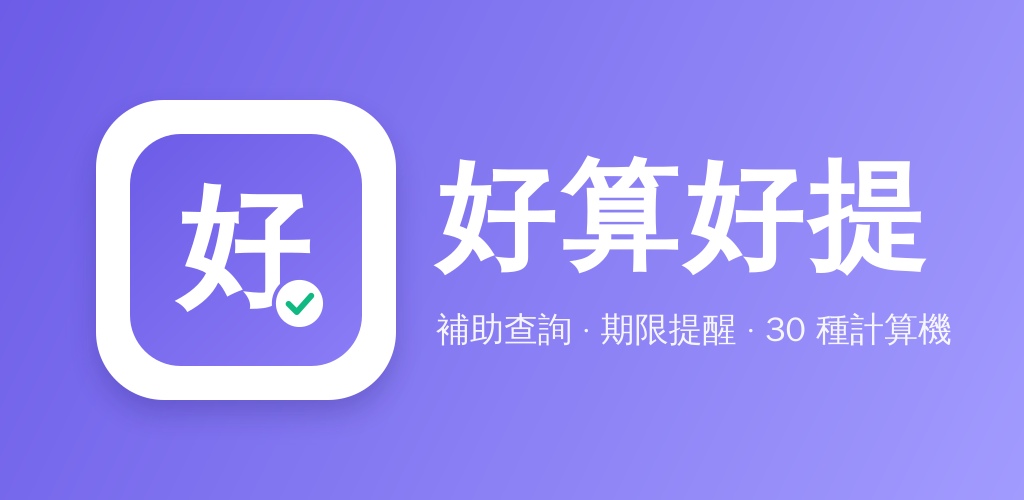
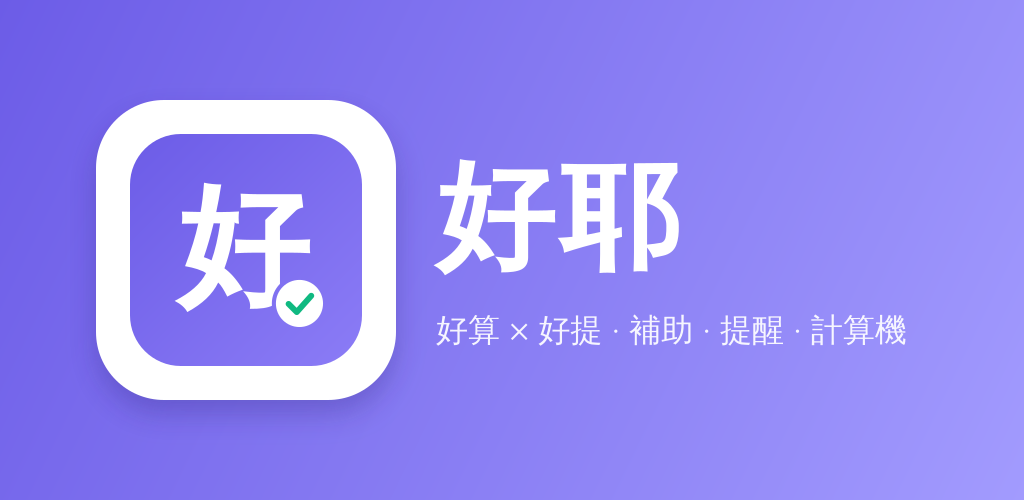
產品名改為「好耶」；修提醒面板被分頁列蓋住的問題
- 顯示名稱全部改為「好耶」（appId com.haosuan.haoti 不變）：site.ts、capacitor.config、Android strings、
  manifest、商店文案、上架手冊、啟動畫面與 feature graphic 文字
- 提醒底部面板 z-index 提到分頁列之上，「確認加入」在手機寬度可以按到；toast 位置避開分頁列
- 端對端流程（Playwright）：試算 7 題→結果→加入提醒→提醒清單，0 個 console 錯誤

Claude-Session: https://claude.ai/code/session_01R5S3Lsq8FJW5NDUegJPTxC

Changed region(s): [[0.5312, 0.3, 0.9062, 0.57], [0.4062, 0.63, 0.9375, 0.69]]

diff --git a/src/components/reminders/AddReminderButton.tsx b/src/components/reminders/AddReminderButton.tsx
@@ -191,8 +191,9 @@ export default function AddReminderButton({
         {existing ? '已加入提醒' : '加入提醒'}
       </Button>
 
+      {/* z 要高於底部分頁列（z-50），否則「確認加入」會被分頁列蓋住按不到 */}
       {open && (
-        <div className="fixed inset-0 z-50 flex items-end justify-center sm:items-center">
+        <div className="fixed inset-0 z-[70] flex items-end justify-center sm:items-center">
           <button
             type="button"
             aria-label="關閉"
@@ -203,7 +204,7 @@ export default function AddReminderButton({
             role="dialog"
             aria-modal="true"
             aria-labelledby={headingId}
-            className="relative max-h-[90vh] w-full max-w-lg overflow-y-auto rounded-t-2xl bg-background p-5 pb-[calc(1.25rem+env(safe-area-inset-bottom))] shadow-xl ring-1 ring-foreground/10 animate-in slide-in-from-bottom duration-200 sm:rounded-2xl"
+            className="relative max-h-[90vh] w-full max-w-lg overflow-y-auto rounded-t-2xl bg-background p-5 pb-[calc(1.25rem+var(--safe-bottom))] shadow-xl ring-1 ring-foreground/10 animate-in slide-in-from-bottom duration-200 sm:rounded-2xl"
           >
             <div className="mb-4 flex items-start justify-between gap-3">
               <h2 id={headingId} className="text-lg font-semibold">
@@ -384,7 +385,7 @@ export default function AddReminderButton({
       {toast && (
         <div
           role="status"
-          className="pointer-events-none fixed inset-x-0 bottom-6 z-[60] flex justify-center px-4"
+          className="pointer-events-none fixed inset-x-0 bottom-[calc(4.5rem+var(--safe-bottom))] z-[80] flex justify-center px-4"
         >
           <div className="rounded-full bg-foreground px-4 py-2 text-sm text-background shadow-lg animate-in fade-in slide-in-from-bottom-2 duration-200">
             {toast}

diff --git a/src/app/more/page.tsx b/src/app/more/page.tsx
@@ -18,7 +18,7 @@ import { DATA_VERSION } from "@/lib/subsidy/data";
 
 export const metadata: Metadata = {
   title: "更多",
-  description: "關於好算好提、隱私權政策、資料來源、意見回饋。",
+  description: "關於好耶、隱私權政策、資料來源、意見回饋。",
   robots: { index: false, follow: true },
 };
 
@@ -34,7 +34,7 @@ const sections = [
   {
     title: "資訊",
     items: [
-      { icon: Info, label: "關於好算好提", desc: "誰在做、怎麼用、免責說明", href: "/about" },
+      { icon: Info, label: "關於好耶", desc: "誰在做、怎麼用、免責說明", href: "/about" },
       { icon: Database, label: "資料來源與更新", desc: `補助資料版本 ${DATA_VERSION}`, href: "/about#sources" },
       { icon: ShieldCheck, label: "隱私權政策", desc: "不需帳號，提醒只存在你的手機", href: "/privacy" },
     ],

diff --git a/src/lib/site.ts b/src/lib/site.ts
@@ -10,11 +10,11 @@ export function absUrl(path: string): string {
 }
 
 /** 產品名稱：好算（計算機）＋好提（補助與提醒），Android app 與網站共用同一個名字 */
-export const APP_NAME = "好算好提";
+export const APP_NAME = "好耶";
 export const APP_TAGLINE = "查補助、記期限、算數字";
 
 /** 服務提供者（個人開發者名義）。改用工作室或公司名義時集中改這裡。 */
-export const PROVIDER_NAME = "好算好提（個人開發者）";
+export const PROVIDER_NAME = "好耶（個人開發者）";
 
 /** 客服／個資權利行使聯絡信箱 */
 export const CONTACT_EMAIL = "b8112182005@gmail.com";

diff --git a/capacitor.config.ts b/capacitor.config.ts
@@ -1,11 +1,11 @@
 import type { CapacitorConfig } from '@capacitor/cli';
 import { Style } from '@capacitor/status-bar';
 
-// 好算好提 Android app（好算計算機 + 好提補助/提醒）
+// 好耶 Android app（好算計算機 + 好提補助/提醒）
 // appId 一旦上架 Google Play 就不能再改。
 const config: CapacitorConfig = {
   appId: 'com.haosuan.haoti',
-  appName: '好算好提',
+  appName: '好耶',
   webDir: 'out',
   android: {
     // 補助申請連結全部是 https，不需要 http 混合內容

diff --git a/src/app/subsidy/[id]/page.tsx b/src/app/subsidy/[id]/page.tsx
@@ -45,7 +45,7 @@ export async function generateMetadata({ params }: { params: Promise<{ id: strin
     title: `${title}：資格、金額、截止日與申請方式`,
     description: s.summary.slice(0, 150),
     alternates: { canonical: `/subsidy/${s.id}` },
-    openGraph: { title: `${title} | 好算好提`, description: s.summary.slice(0, 150), url: `/subsidy/${s.id}` },
+    openGraph: { title: `${title} | 好耶`, description: s.summary.slice(0, 150), url: `/subsidy/${s.id}` },
   };
 }
 

diff --git a/docs/PLAY_RELEASE.md b/docs/PLAY_RELEASE.md
@@ -1,4 +1,4 @@
-# 好算好提 Android 上架手冊
+# 好耶 Android 上架手冊
 
 對象：持有 Google Play 開發者帳號的你。全部指令用 Git Bash，可直接貼上。
 前提：PC 已裝 Node 20+、JDK 17 或 21、Android Studio（含 SDK Platform 36 與 Build-Tools 36）。
@@ -51,7 +51,7 @@ GitHub Actions 會用 `github.run_number` 當 versionCode，AAB 在 workflow 的
 ## 2. Play Console 建立 app（15 分鐘，只做一次）
 
 1. [play.google.com/console](https://play.google.com/console) → 建立應用程式
-   - 名稱：好算好提
+   - 名稱：好耶
    - 預設語言：中文（繁體）
    - 應用程式／遊戲：應用程式；免費
 2. 左側「測試與發布 → 內部測試」→ 建立新版本 → 上傳 `app-release.aab`

diff --git a/store/listing.md b/store/listing.md
@@ -2,7 +2,7 @@
 
 ## 應用程式名稱（30 字內）
 
-好算好提：補助查詢、期限提醒、計算機
+好耶：補助查詢、期限提醒、計算機
 
 ## 簡短說明（80 字內）
 
@@ -10,7 +10,7 @@
 
 ## 完整說明（4000 字內）
 
-好算好提把三件常被拖延的事放在一起：查補助、記期限、算數字。
+好耶把三件常被拖延的事放在一起：查補助、記期限、算數字。
 
 【查補助】
 回答 7 個問題（縣市、年齡、收入、住的狀況、家庭、身分、車輛），列出你可能符合的政府補助，分成「符合」「可能符合」「不符合」並說明原因。每個項目都有：

diff --git a/CLAUDE.md b/CLAUDE.md
@@ -4,7 +4,7 @@
 
 ## 這是什麼
 
-好算好提：Next.js 16 App Router 網站 + Capacitor 8 Android app（同一份程式碼）。
+好耶：Next.js 16 App Router 網站 + Capacitor 8 Android app（同一份程式碼）。
 三個模組：補助查詢（`src/lib/subsidy`、`src/app/subsidy`）、提醒（`src/lib/reminders`、`src/app/reminders`）、30 種計算機（`src/lib/calculators`、各分類路徑）。
 
 ## 指令

diff --git a/README.md b/README.md
@@ -1,4 +1,4 @@
-# 好算好提 HaoSuan × HaoTi
+# 好耶 HaoSuan × HaoTi
 
 查補助、記期限、算數字。一份 Next.js 程式碼同時輸出：
 
